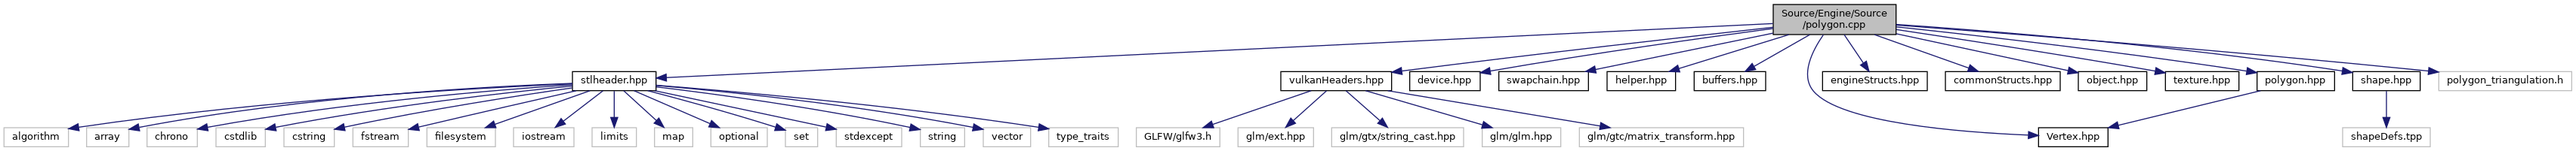
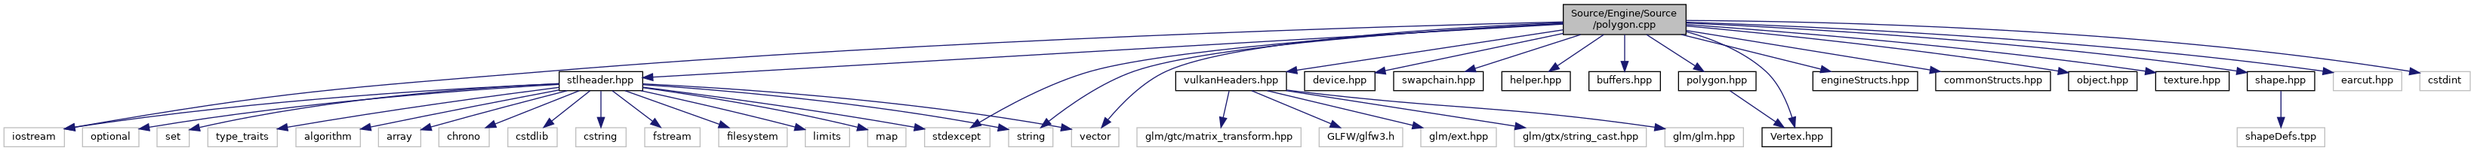
Deploying to gh-pages from @ RahulVadhyar/Chronos@322ca6da49c3140557e130659ca4319257ebfc58 🚀

diff --git a/polygon_8cpp_source.html b/polygon_8cpp_source.html
@@ -101,30 +101,30 @@ $(document).ready(function(){initNavTree('polygon_8cpp_source.html',''); initRes
 <div class="line"><a name="l00011"></a><span class="lineno">   11</span>&#160;<span class="preprocessor">#include &quot;<a class="code" href="texture_8hpp.html">texture.hpp</a>&quot;</span></div>
 <div class="line"><a name="l00012"></a><span class="lineno">   12</span>&#160;<span class="preprocessor">#include &quot;<a class="code" href="shape_8hpp.html">shape.hpp</a>&quot;</span></div>
 <div class="line"><a name="l00013"></a><span class="lineno">   13</span>&#160;<span class="preprocessor">#include &quot;<a class="code" href="polygon_8hpp.html">polygon.hpp</a>&quot;</span></div>
-<div class="line"><a name="l00014"></a><span class="lineno">   14</span>&#160;<span class="preprocessor">#include &quot;polygon_triangulation.h&quot;</span></div>
-<div class="line"><a name="l00015"></a><span class="lineno">   15</span>&#160; </div>
-<div class="line"><a name="l00016"></a><span class="lineno"><a class="line" href="classChronos_1_1Engine_1_1Polygon.html#a1adbc891708ff947404aa55cd51b577e">   16</a></span>&#160;<span class="keywordtype">void</span> <a class="code" href="classChronos_1_1Engine_1_1Polygon.html#a1adbc891708ff947404aa55cd51b577e">Chronos::Engine::Polygon::init</a>(<a class="code" href="classChronos_1_1Engine_1_1Device.html">Chronos::Engine::Device</a>* device, VkCommandPool commandPool, <a class="code" href="classChronos_1_1Engine_1_1SwapChain.html">Chronos::Engine::SwapChain</a>* swapChain,</div>
-<div class="line"><a name="l00017"></a><span class="lineno">   17</span>&#160;VkSampler textureSampler, <a class="code" href="classChronos_1_1Engine_1_1Texture.html">Chronos::Engine::Texture</a> texture, VkRenderPass* renderPass, std::vector&lt;std::array&lt;float, 2&gt;&gt; vertices){</div>
-<div class="line"><a name="l00018"></a><span class="lineno">   18</span>&#160;    this-&gt;<a class="code" href="classChronos_1_1Engine_1_1Object.html#a6323a6f9a4c9fefff3d27c34f51f2f59">vertexShaderPath</a> = SPIV_SHADER_PATH<span class="stringliteral">&quot;/textureVert.spv&quot;</span>;</div>
-<div class="line"><a name="l00019"></a><span class="lineno">   19</span>&#160;    this-&gt;<a class="code" href="classChronos_1_1Engine_1_1Object.html#ad017c20cbe79d573325a66621de9963e">fragmentShaderPath</a> = SPIV_SHADER_PATH<span class="stringliteral">&quot;/textureFrag.spv&quot;</span>;</div>
-<div class="line"><a name="l00020"></a><span class="lineno">   20</span>&#160;    this-&gt;texture = <a class="code" href="classChronos_1_1Engine_1_1Shape.html#a5c6cfeb926c4e0e8d92823e1184e7698">texture</a>;</div>
-<div class="line"><a name="l00021"></a><span class="lineno">   21</span>&#160; </div>
-<div class="line"><a name="l00022"></a><span class="lineno">   22</span>&#160;    <span class="keyword">const</span> uint32_t nvertices = <a class="code" href="classChronos_1_1Engine_1_1Shape.html#a7ed759c6c4d3e9422e12b7f232a083b8">vertices</a>.size();</div>
-<div class="line"><a name="l00023"></a><span class="lineno">   23</span>&#160;    std::vector&lt;vertex_t&gt; polytriVertices;</div>
-<div class="line"><a name="l00024"></a><span class="lineno">   24</span>&#160;    <span class="keywordflow">for</span> (<span class="keyword">auto</span>&amp; vertex : <a class="code" href="classChronos_1_1Engine_1_1Shape.html#a7ed759c6c4d3e9422e12b7f232a083b8">vertices</a>) {</div>
-<div class="line"><a name="l00025"></a><span class="lineno">   25</span>&#160;        vertex_t v;</div>
-<div class="line"><a name="l00026"></a><span class="lineno">   26</span>&#160;        v.x = vertex[0];</div>
-<div class="line"><a name="l00027"></a><span class="lineno">   27</span>&#160;        v.y = vertex[1];</div>
-<div class="line"><a name="l00028"></a><span class="lineno">   28</span>&#160;        polytriVertices.push_back(v);</div>
+<div class="line"><a name="l00014"></a><span class="lineno">   14</span>&#160;<span class="preprocessor">#include &quot;earcut.hpp&quot;</span></div>
+<div class="line"><a name="l00015"></a><span class="lineno">   15</span>&#160;<span class="preprocessor">#include &lt;cstdint&gt;</span></div>
+<div class="line"><a name="l00016"></a><span class="lineno">   16</span>&#160;<span class="preprocessor">#include &lt;iostream&gt;</span></div>
+<div class="line"><a name="l00017"></a><span class="lineno">   17</span>&#160;<span class="preprocessor">#include &lt;stdexcept&gt;</span></div>
+<div class="line"><a name="l00018"></a><span class="lineno">   18</span>&#160;<span class="preprocessor">#include &lt;string&gt;</span></div>
+<div class="line"><a name="l00019"></a><span class="lineno">   19</span>&#160;<span class="preprocessor">#include &lt;vector&gt;</span></div>
+<div class="line"><a name="l00020"></a><span class="lineno">   20</span>&#160; </div>
+<div class="line"><a name="l00021"></a><span class="lineno"><a class="line" href="classChronos_1_1Engine_1_1Polygon.html#a1adbc891708ff947404aa55cd51b577e">   21</a></span>&#160;<span class="keywordtype">void</span> <a class="code" href="classChronos_1_1Engine_1_1Polygon.html#a1adbc891708ff947404aa55cd51b577e">Chronos::Engine::Polygon::init</a>(<a class="code" href="classChronos_1_1Engine_1_1Device.html">Chronos::Engine::Device</a>* device, VkCommandPool commandPool, <a class="code" href="classChronos_1_1Engine_1_1SwapChain.html">Chronos::Engine::SwapChain</a>* swapChain,</div>
+<div class="line"><a name="l00022"></a><span class="lineno">   22</span>&#160;VkSampler textureSampler, <a class="code" href="classChronos_1_1Engine_1_1Texture.html">Chronos::Engine::Texture</a> texture, VkRenderPass* renderPass, std::vector&lt;std::array&lt;float, 2&gt;&gt; vertices){</div>
+<div class="line"><a name="l00023"></a><span class="lineno">   23</span>&#160;    this-&gt;<a class="code" href="classChronos_1_1Engine_1_1Object.html#a6323a6f9a4c9fefff3d27c34f51f2f59">vertexShaderPath</a> = SPIV_SHADER_PATH<span class="stringliteral">&quot;/textureVert.spv&quot;</span>;</div>
+<div class="line"><a name="l00024"></a><span class="lineno">   24</span>&#160;    this-&gt;<a class="code" href="classChronos_1_1Engine_1_1Object.html#ad017c20cbe79d573325a66621de9963e">fragmentShaderPath</a> = SPIV_SHADER_PATH<span class="stringliteral">&quot;/textureFrag.spv&quot;</span>;</div>
+<div class="line"><a name="l00025"></a><span class="lineno">   25</span>&#160;    this-&gt;texture = <a class="code" href="classChronos_1_1Engine_1_1Shape.html#a5c6cfeb926c4e0e8d92823e1184e7698">texture</a>;</div>
+<div class="line"><a name="l00026"></a><span class="lineno">   26</span>&#160; </div>
+<div class="line"><a name="l00027"></a><span class="lineno">   27</span>&#160; </div>
+<div class="line"><a name="l00028"></a><span class="lineno">   28</span>&#160;    <span class="keywordflow">for</span> (<span class="keyword">auto</span>&amp; vertex : <a class="code" href="classChronos_1_1Engine_1_1Shape.html#a7ed759c6c4d3e9422e12b7f232a083b8">vertices</a>) {</div>
 <div class="line"><a name="l00029"></a><span class="lineno">   29</span>&#160;        <a class="code" href="structChronos_1_1Engine_1_1TexturedVertex.html">TexturedVertex</a> tv = {{vertex[0], vertex[1]}, {0.0f, 0.0f}};</div>
 <div class="line"><a name="l00030"></a><span class="lineno">   30</span>&#160;        this-&gt;vertices.push_back(tv);</div>
 <div class="line"><a name="l00031"></a><span class="lineno">   31</span>&#160;    }</div>
-<div class="line"><a name="l00032"></a><span class="lineno">   32</span>&#160;    PolygonTriangulation::TriangleBuffer_t triangles;</div>
-<div class="line"><a name="l00033"></a><span class="lineno">   33</span>&#160;    PolygonTriangulation::Triangulate(1, &amp;nvertices, polytriVertices.data(), triangles);</div>
-<div class="line"><a name="l00034"></a><span class="lineno">   34</span>&#160;    <span class="keywordflow">for</span> (<span class="keyword">auto</span>&amp; t : triangles) {</div>
-<div class="line"><a name="l00035"></a><span class="lineno">   35</span>&#160;        <a class="code" href="classChronos_1_1Engine_1_1Shape.html#af568aa742535919b46b8caf2b913ba57">indices</a>.push_back(t.v0);</div>
-<div class="line"><a name="l00036"></a><span class="lineno">   36</span>&#160;        <a class="code" href="classChronos_1_1Engine_1_1Shape.html#af568aa742535919b46b8caf2b913ba57">indices</a>.push_back(t.v1);</div>
-<div class="line"><a name="l00037"></a><span class="lineno">   37</span>&#160;        <a class="code" href="classChronos_1_1Engine_1_1Shape.html#af568aa742535919b46b8caf2b913ba57">indices</a>.push_back(t.v2);</div>
+<div class="line"><a name="l00032"></a><span class="lineno">   32</span>&#160;    std::vector&lt;uint32_t&gt; triangleIndices = mapbox::earcut&lt;uint32_t&gt;(std::array&lt;std::vector&lt;std::array&lt;float, 2&gt;&gt;, 2&gt;{<a class="code" href="classChronos_1_1Engine_1_1Shape.html#a7ed759c6c4d3e9422e12b7f232a083b8">vertices</a>, {}});</div>
+<div class="line"><a name="l00033"></a><span class="lineno">   33</span>&#160;    <span class="keywordflow">for</span> (uint32_t i = triangleIndices.size() - 1; i &gt; 0; i--){</div>
+<div class="line"><a name="l00034"></a><span class="lineno">   34</span>&#160;        <span class="keywordflow">if</span>(triangleIndices[i] &gt;= <a class="code" href="classChronos_1_1Engine_1_1Shape.html#a7ed759c6c4d3e9422e12b7f232a083b8">vertices</a>.size()){</div>
+<div class="line"><a name="l00035"></a><span class="lineno">   35</span>&#160;            <span class="keywordflow">throw</span> std::runtime_error(<span class="stringliteral">&quot;Index&quot;</span> + std::to_string(triangleIndices[i]) + <span class="stringliteral">&quot; out of range&quot;</span>);</div>
+<div class="line"><a name="l00036"></a><span class="lineno">   36</span>&#160;        }</div>
+<div class="line"><a name="l00037"></a><span class="lineno">   37</span>&#160;        this-&gt;<a class="code" href="classChronos_1_1Engine_1_1Shape.html#af568aa742535919b46b8caf2b913ba57">indices</a>.push_back(triangleIndices[i]);</div>
 <div class="line"><a name="l00038"></a><span class="lineno">   38</span>&#160;    }</div>
 <div class="line"><a name="l00039"></a><span class="lineno">   39</span>&#160; </div>
 <div class="line"><a name="l00040"></a><span class="lineno">   40</span>&#160;    <a class="code" href="classChronos_1_1Engine_1_1Object.html#a2ff58729143a63b536fcd06e890b514e">Chronos::Engine::Object::init</a>(<a class="code" href="classChronos_1_1Engine_1_1Object.html#a9ec42d04a85645aaffe162580da68a29">device</a>, <a class="code" href="classChronos_1_1Engine_1_1Object.html#a300ba4549a4e0119cf2fcf0fad24569b">commandPool</a>, <a class="code" href="classChronos_1_1Engine_1_1Object.html#a7cfcd07115e8e58783c5cc40e4575bd8">swapChain</a>, <a class="code" href="classChronos_1_1Engine_1_1Object.html#a203a494524c8c74d52e5d692a2845f8b">textureSampler</a>, <a class="code" href="classChronos_1_1Engine_1_1Object.html#af8b89f8ed5191515b60219682efba376">renderPass</a>);</div>
@@ -157,7 +157,7 @@ $(document).ready(function(){initNavTree('polygon_8cpp_source.html',''); initRes
 <div class="ttc" id="aclassChronos_1_1Engine_1_1Object_html_a9ec42d04a85645aaffe162580da68a29"><div class="ttname"><a href="classChronos_1_1Engine_1_1Object.html#a9ec42d04a85645aaffe162580da68a29">Chronos::Engine::Object::device</a></div><div class="ttdeci">Chronos::Engine::Device * device</div><div class="ttdef"><b>Definition:</b> <a href="object_8hpp_source.html#l00085">object.hpp:85</a></div></div>
 <div class="ttc" id="aclassChronos_1_1Engine_1_1Object_html_ad017c20cbe79d573325a66621de9963e"><div class="ttname"><a href="classChronos_1_1Engine_1_1Object.html#ad017c20cbe79d573325a66621de9963e">Chronos::Engine::Object::fragmentShaderPath</a></div><div class="ttdeci">std::string fragmentShaderPath</div><div class="ttdef"><b>Definition:</b> <a href="object_8hpp_source.html#l00084">object.hpp:84</a></div></div>
 <div class="ttc" id="aclassChronos_1_1Engine_1_1Object_html_af8b89f8ed5191515b60219682efba376"><div class="ttname"><a href="classChronos_1_1Engine_1_1Object.html#af8b89f8ed5191515b60219682efba376">Chronos::Engine::Object::renderPass</a></div><div class="ttdeci">VkRenderPass * renderPass</div><div class="ttdef"><b>Definition:</b> <a href="object_8hpp_source.html#l00089">object.hpp:89</a></div></div>
-<div class="ttc" id="aclassChronos_1_1Engine_1_1Polygon_html_a1adbc891708ff947404aa55cd51b577e"><div class="ttname"><a href="classChronos_1_1Engine_1_1Polygon.html#a1adbc891708ff947404aa55cd51b577e">Chronos::Engine::Polygon::init</a></div><div class="ttdeci">void init(Chronos::Engine::Device *device, VkCommandPool commandPool, Chronos::Engine::SwapChain *swapChain, VkSampler textureSampler, Chronos::Engine::Texture texture, VkRenderPass *renderPass, std::vector&lt; std::array&lt; float, 2 &gt;&gt; vertices)</div><div class="ttdef"><b>Definition:</b> <a href="polygon_8cpp_source.html#l00016">polygon.cpp:16</a></div></div>
+<div class="ttc" id="aclassChronos_1_1Engine_1_1Polygon_html_a1adbc891708ff947404aa55cd51b577e"><div class="ttname"><a href="classChronos_1_1Engine_1_1Polygon.html#a1adbc891708ff947404aa55cd51b577e">Chronos::Engine::Polygon::init</a></div><div class="ttdeci">void init(Chronos::Engine::Device *device, VkCommandPool commandPool, Chronos::Engine::SwapChain *swapChain, VkSampler textureSampler, Chronos::Engine::Texture texture, VkRenderPass *renderPass, std::vector&lt; std::array&lt; float, 2 &gt;&gt; vertices)</div><div class="ttdef"><b>Definition:</b> <a href="polygon_8cpp_source.html#l00021">polygon.cpp:21</a></div></div>
 <div class="ttc" id="aclassChronos_1_1Engine_1_1Shape_html_a5c6cfeb926c4e0e8d92823e1184e7698"><div class="ttname"><a href="classChronos_1_1Engine_1_1Shape.html#a5c6cfeb926c4e0e8d92823e1184e7698">Chronos::Engine::Shape&lt; TexturedVertex &gt;::texture</a></div><div class="ttdeci">std::conditional_t&lt; std::is_same&lt; Chronos::Engine::TexturedVertex, VertexStruct &gt;::value, Chronos::Engine::Texture, Empty &gt; texture</div><div class="ttdoc">The texture that is to be used.</div><div class="ttdef"><b>Definition:</b> <a href="shape_8hpp_source.html#l00092">shape.hpp:92</a></div></div>
 <div class="ttc" id="aclassChronos_1_1Engine_1_1Shape_html_a7ed759c6c4d3e9422e12b7f232a083b8"><div class="ttname"><a href="classChronos_1_1Engine_1_1Shape.html#a7ed759c6c4d3e9422e12b7f232a083b8">Chronos::Engine::Shape&lt; TexturedVertex &gt;::vertices</a></div><div class="ttdeci">std::vector&lt; VertexStruct &gt; vertices</div><div class="ttdoc">The vertices that is used to render the shape.</div><div class="ttdef"><b>Definition:</b> <a href="shape_8hpp_source.html#l00097">shape.hpp:97</a></div></div>
 <div class="ttc" id="aclassChronos_1_1Engine_1_1Shape_html_ad894665aca6b42aa8a75c030c926f9e8"><div class="ttname"><a href="classChronos_1_1Engine_1_1Shape.html#ad894665aca6b42aa8a75c030c926f9e8">Chronos::Engine::Shape&lt; TexturedVertex &gt;::vertexBuffer</a></div><div class="ttdeci">Chronos::Engine::Buffer vertexBuffer</div><div class="ttdoc">The vertex buffer that is used to store the vertices.</div><div class="ttdef"><b>Definition:</b> <a href="shape_8hpp_source.html#l00102">shape.hpp:102</a></div></div>

diff --git a/classChronos_1_1Engine_1_1Polygon.html b/classChronos_1_1Engine_1_1Polygon.html
@@ -264,28 +264,23 @@ Additional Inherited Members</h2></td></tr>
       </table>
 </div><div class="memdoc">
 
-<p class="definition">Definition at line <a class="el" href="polygon_8cpp_source.html#l00016">16</a> of file <a class="el" href="polygon_8cpp_source.html">polygon.cpp</a>.</p>
-<div class="fragment"><div class="line"><a name="l00017"></a><span class="lineno">   17</span>&#160;                                                                                                                         {</div>
-<div class="line"><a name="l00018"></a><span class="lineno">   18</span>&#160;    this-&gt;<a class="code" href="classChronos_1_1Engine_1_1Object.html#a6323a6f9a4c9fefff3d27c34f51f2f59">vertexShaderPath</a> = SPIV_SHADER_PATH<span class="stringliteral">&quot;/textureVert.spv&quot;</span>;</div>
-<div class="line"><a name="l00019"></a><span class="lineno">   19</span>&#160;    this-&gt;<a class="code" href="classChronos_1_1Engine_1_1Object.html#ad017c20cbe79d573325a66621de9963e">fragmentShaderPath</a> = SPIV_SHADER_PATH<span class="stringliteral">&quot;/textureFrag.spv&quot;</span>;</div>
-<div class="line"><a name="l00020"></a><span class="lineno">   20</span>&#160;    this-&gt;texture = <a class="code" href="classChronos_1_1Engine_1_1Shape.html#a5c6cfeb926c4e0e8d92823e1184e7698">texture</a>;</div>
-<div class="line"><a name="l00021"></a><span class="lineno">   21</span>&#160; </div>
-<div class="line"><a name="l00022"></a><span class="lineno">   22</span>&#160;    <span class="keyword">const</span> uint32_t nvertices = <a class="code" href="classChronos_1_1Engine_1_1Shape.html#a7ed759c6c4d3e9422e12b7f232a083b8">vertices</a>.size();</div>
-<div class="line"><a name="l00023"></a><span class="lineno">   23</span>&#160;    std::vector&lt;vertex_t&gt; polytriVertices;</div>
-<div class="line"><a name="l00024"></a><span class="lineno">   24</span>&#160;    <span class="keywordflow">for</span> (<span class="keyword">auto</span>&amp; vertex : <a class="code" href="classChronos_1_1Engine_1_1Shape.html#a7ed759c6c4d3e9422e12b7f232a083b8">vertices</a>) {</div>
-<div class="line"><a name="l00025"></a><span class="lineno">   25</span>&#160;        vertex_t v;</div>
-<div class="line"><a name="l00026"></a><span class="lineno">   26</span>&#160;        v.x = vertex[0];</div>
-<div class="line"><a name="l00027"></a><span class="lineno">   27</span>&#160;        v.y = vertex[1];</div>
-<div class="line"><a name="l00028"></a><span class="lineno">   28</span>&#160;        polytriVertices.push_back(v);</div>
+<p class="definition">Definition at line <a class="el" href="polygon_8cpp_source.html#l00021">21</a> of file <a class="el" href="polygon_8cpp_source.html">polygon.cpp</a>.</p>
+<div class="fragment"><div class="line"><a name="l00022"></a><span class="lineno">   22</span>&#160;                                                                                                                         {</div>
+<div class="line"><a name="l00023"></a><span class="lineno">   23</span>&#160;    this-&gt;<a class="code" href="classChronos_1_1Engine_1_1Object.html#a6323a6f9a4c9fefff3d27c34f51f2f59">vertexShaderPath</a> = SPIV_SHADER_PATH<span class="stringliteral">&quot;/textureVert.spv&quot;</span>;</div>
+<div class="line"><a name="l00024"></a><span class="lineno">   24</span>&#160;    this-&gt;<a class="code" href="classChronos_1_1Engine_1_1Object.html#ad017c20cbe79d573325a66621de9963e">fragmentShaderPath</a> = SPIV_SHADER_PATH<span class="stringliteral">&quot;/textureFrag.spv&quot;</span>;</div>
+<div class="line"><a name="l00025"></a><span class="lineno">   25</span>&#160;    this-&gt;texture = <a class="code" href="classChronos_1_1Engine_1_1Shape.html#a5c6cfeb926c4e0e8d92823e1184e7698">texture</a>;</div>
+<div class="line"><a name="l00026"></a><span class="lineno">   26</span>&#160; </div>
+<div class="line"><a name="l00027"></a><span class="lineno">   27</span>&#160; </div>
+<div class="line"><a name="l00028"></a><span class="lineno">   28</span>&#160;    <span class="keywordflow">for</span> (<span class="keyword">auto</span>&amp; vertex : <a class="code" href="classChronos_1_1Engine_1_1Shape.html#a7ed759c6c4d3e9422e12b7f232a083b8">vertices</a>) {</div>
 <div class="line"><a name="l00029"></a><span class="lineno">   29</span>&#160;        TexturedVertex tv = {{vertex[0], vertex[1]}, {0.0f, 0.0f}};</div>
 <div class="line"><a name="l00030"></a><span class="lineno">   30</span>&#160;        this-&gt;vertices.push_back(tv);</div>
 <div class="line"><a name="l00031"></a><span class="lineno">   31</span>&#160;    }</div>
-<div class="line"><a name="l00032"></a><span class="lineno">   32</span>&#160;    PolygonTriangulation::TriangleBuffer_t triangles;</div>
-<div class="line"><a name="l00033"></a><span class="lineno">   33</span>&#160;    PolygonTriangulation::Triangulate(1, &amp;nvertices, polytriVertices.data(), triangles);</div>
-<div class="line"><a name="l00034"></a><span class="lineno">   34</span>&#160;    <span class="keywordflow">for</span> (<span class="keyword">auto</span>&amp; t : triangles) {</div>
-<div class="line"><a name="l00035"></a><span class="lineno">   35</span>&#160;        <a class="code" href="classChronos_1_1Engine_1_1Shape.html#af568aa742535919b46b8caf2b913ba57">indices</a>.push_back(t.v0);</div>
-<div class="line"><a name="l00036"></a><span class="lineno">   36</span>&#160;        <a class="code" href="classChronos_1_1Engine_1_1Shape.html#af568aa742535919b46b8caf2b913ba57">indices</a>.push_back(t.v1);</div>
-<div class="line"><a name="l00037"></a><span class="lineno">   37</span>&#160;        <a class="code" href="classChronos_1_1Engine_1_1Shape.html#af568aa742535919b46b8caf2b913ba57">indices</a>.push_back(t.v2);</div>
+<div class="line"><a name="l00032"></a><span class="lineno">   32</span>&#160;    std::vector&lt;uint32_t&gt; triangleIndices = mapbox::earcut&lt;uint32_t&gt;(std::array&lt;std::vector&lt;std::array&lt;float, 2&gt;&gt;, 2&gt;{<a class="code" href="classChronos_1_1Engine_1_1Shape.html#a7ed759c6c4d3e9422e12b7f232a083b8">vertices</a>, {}});</div>
+<div class="line"><a name="l00033"></a><span class="lineno">   33</span>&#160;    <span class="keywordflow">for</span> (uint32_t i = triangleIndices.size() - 1; i &gt; 0; i--){</div>
+<div class="line"><a name="l00034"></a><span class="lineno">   34</span>&#160;        <span class="keywordflow">if</span>(triangleIndices[i] &gt;= <a class="code" href="classChronos_1_1Engine_1_1Shape.html#a7ed759c6c4d3e9422e12b7f232a083b8">vertices</a>.size()){</div>
+<div class="line"><a name="l00035"></a><span class="lineno">   35</span>&#160;            <span class="keywordflow">throw</span> std::runtime_error(<span class="stringliteral">&quot;Index&quot;</span> + std::to_string(triangleIndices[i]) + <span class="stringliteral">&quot; out of range&quot;</span>);</div>
+<div class="line"><a name="l00036"></a><span class="lineno">   36</span>&#160;        }</div>
+<div class="line"><a name="l00037"></a><span class="lineno">   37</span>&#160;        this-&gt;<a class="code" href="classChronos_1_1Engine_1_1Shape.html#af568aa742535919b46b8caf2b913ba57">indices</a>.push_back(triangleIndices[i]);</div>
 <div class="line"><a name="l00038"></a><span class="lineno">   38</span>&#160;    }</div>
 <div class="line"><a name="l00039"></a><span class="lineno">   39</span>&#160; </div>
 <div class="line"><a name="l00040"></a><span class="lineno">   40</span>&#160;    <a class="code" href="classChronos_1_1Engine_1_1Object.html#a2ff58729143a63b536fcd06e890b514e">Chronos::Engine::Object::init</a>(<a class="code" href="classChronos_1_1Engine_1_1Object.html#a9ec42d04a85645aaffe162580da68a29">device</a>, <a class="code" href="classChronos_1_1Engine_1_1Object.html#a300ba4549a4e0119cf2fcf0fad24569b">commandPool</a>, <a class="code" href="classChronos_1_1Engine_1_1Object.html#a7cfcd07115e8e58783c5cc40e4575bd8">swapChain</a>, <a class="code" href="classChronos_1_1Engine_1_1Object.html#a203a494524c8c74d52e5d692a2845f8b">textureSampler</a>, <a class="code" href="classChronos_1_1Engine_1_1Object.html#af8b89f8ed5191515b60219682efba376">renderPass</a>);</div>

diff --git a/polygon_8cpp.html b/polygon_8cpp.html
@@ -101,49 +101,55 @@ $(document).ready(function(){initNavTree('polygon_8cpp.html',''); initResizable(
 <code>#include &quot;<a class="el" href="texture_8hpp_source.html">texture.hpp</a>&quot;</code><br />
 <code>#include &quot;<a class="el" href="shape_8hpp_source.html">shape.hpp</a>&quot;</code><br />
 <code>#include &quot;<a class="el" href="polygon_8hpp_source.html">polygon.hpp</a>&quot;</code><br />
-<code>#include &quot;polygon_triangulation.h&quot;</code><br />
+<code>#include &quot;earcut.hpp&quot;</code><br />
+<code>#include &lt;cstdint&gt;</code><br />
+<code>#include &lt;iostream&gt;</code><br />
+<code>#include &lt;stdexcept&gt;</code><br />
+<code>#include &lt;string&gt;</code><br />
+<code>#include &lt;vector&gt;</code><br />
 </div><div class="textblock"><div class="dynheader">
 Include dependency graph for polygon.cpp:</div>
 <div class="dyncontent">
 <div class="center"><img src="polygon_8cpp__incl.png" border="0" usemap="#aSource_2Engine_2Source_2polygon_8cpp" alt=""/></div>
 <map name="aSource_2Engine_2Source_2polygon_8cpp" id="aSource_2Engine_2Source_2polygon_8cpp">
-<area shape="rect" title=" " alt="" coords="2348,5,2511,47"/>
-<area shape="rect" href="stlheader_8hpp.html" title="Contains all the standard library headers used in the project." alt="" coords="758,95,869,121"/>
-<area shape="rect" href="vulkanHeaders_8hpp.html" title="Contains the common headers for the vulkan API." alt="" coords="1696,95,1843,121"/>
-<area shape="rect" href="device_8hpp.html" title="Contains the Device class." alt="" coords="1867,95,1960,121"/>
-<area shape="rect" href="swapchain_8hpp.html" title="Contains the swapChain class along with all the swapChain related functions." alt="" coords="1985,95,2103,121"/>
-<area shape="rect" href="helper_8hpp.html" title="Contains various common functions used by other classes in the Engine namespace." alt="" coords="2128,95,2219,121"/>
-<area shape="rect" href="buffers_8hpp.html" title="Contains the Buffer and UniformBuffer class." alt="" coords="2243,95,2338,121"/>
-<area shape="rect" href="Vertex_8hpp.html" title="This file includes the structure of a vertex." alt="" coords="2699,169,2791,196"/>
-<area shape="rect" href="engineStructs_8hpp.html" title="Contains ShapeParams and UniformBufferObject structs." alt="" coords="2413,95,2552,121"/>
-<area shape="rect" href="commonStructs_8hpp.html" title=" " alt="" coords="2576,95,2728,121"/>
-<area shape="rect" href="object_8hpp.html" title="Contains the class for creating a generic object." alt="" coords="2752,95,2843,121"/>
-<area shape="rect" href="texture_8hpp.html" title="Contains the functions for image manipulation along with the Texture class." alt="" coords="2867,95,2965,121"/>
-<area shape="rect" href="shape_8hpp.html" title="Contains the class for creating a shape." alt="" coords="3115,95,3205,121"/>
-<area shape="rect" href="polygon_8hpp.html" title=" " alt="" coords="2989,95,3091,121"/>
-<area shape="rect" title=" " alt="" coords="3229,95,3405,121"/>
-<area shape="rect" title=" " alt="" coords="5,169,91,196"/>
-<area shape="rect" title=" " alt="" coords="115,169,171,196"/>
-<area shape="rect" title=" " alt="" coords="195,169,261,196"/>
-<area shape="rect" title=" " alt="" coords="286,169,351,196"/>
-<area shape="rect" title=" " alt="" coords="376,169,443,196"/>
-<area shape="rect" title=" " alt="" coords="467,169,541,196"/>
-<area shape="rect" title=" " alt="" coords="565,169,656,196"/>
-<area shape="rect" title=" " alt="" coords="680,169,760,196"/>
-<area shape="rect" title=" " alt="" coords="784,169,843,196"/>
-<area shape="rect" title=" " alt="" coords="867,169,917,196"/>
-<area shape="rect" title=" " alt="" coords="941,169,1016,196"/>
-<area shape="rect" title=" " alt="" coords="1040,169,1083,196"/>
-<area shape="rect" title=" " alt="" coords="1107,169,1194,196"/>
-<area shape="rect" title=" " alt="" coords="1219,169,1277,196"/>
-<area shape="rect" title=" " alt="" coords="1302,169,1365,196"/>
-<area shape="rect" title=" " alt="" coords="1389,169,1481,196"/>
-<area shape="rect" title=" " alt="" coords="1505,169,1615,196"/>
-<area shape="rect" title=" " alt="" coords="1639,169,1739,196"/>
-<area shape="rect" title=" " alt="" coords="1763,169,1938,196"/>
-<area shape="rect" title=" " alt="" coords="1963,169,2067,196"/>
-<area shape="rect" title=" " alt="" coords="2091,169,2309,196"/>
-<area shape="rect" title=" " alt="" coords="3102,169,3218,196"/>
+<area shape="rect" title=" " alt="" coords="2071,5,2233,47"/>
+<area shape="rect" href="stlheader_8hpp.html" title="Contains all the standard library headers used in the project." alt="" coords="741,95,851,121"/>
+<area shape="rect" title=" " alt="" coords="5,169,85,196"/>
+<area shape="rect" title=" " alt="" coords="1225,169,1311,196"/>
+<area shape="rect" title=" " alt="" coords="1336,169,1395,196"/>
+<area shape="rect" title=" " alt="" coords="1419,169,1482,196"/>
+<area shape="rect" href="vulkanHeaders_8hpp.html" title="Contains the common headers for the vulkan API." alt="" coords="1557,95,1704,121"/>
+<area shape="rect" href="device_8hpp.html" title="Contains the Device class." alt="" coords="1728,95,1821,121"/>
+<area shape="rect" href="swapchain_8hpp.html" title="Contains the swapChain class along with all the swapChain related functions." alt="" coords="1846,95,1965,121"/>
+<area shape="rect" href="helper_8hpp.html" title="Contains various common functions used by other classes in the Engine namespace." alt="" coords="1989,95,2080,121"/>
+<area shape="rect" href="buffers_8hpp.html" title="Contains the Buffer and UniformBuffer class." alt="" coords="2105,95,2199,121"/>
+<area shape="rect" href="Vertex_8hpp.html" title="This file includes the structure of a vertex." alt="" coords="2334,169,2426,196"/>
+<area shape="rect" href="engineStructs_8hpp.html" title="Contains ShapeParams and UniformBufferObject structs." alt="" coords="2401,95,2540,121"/>
+<area shape="rect" href="commonStructs_8hpp.html" title=" " alt="" coords="2564,95,2716,121"/>
+<area shape="rect" href="object_8hpp.html" title="Contains the class for creating a generic object." alt="" coords="2740,95,2831,121"/>
+<area shape="rect" href="texture_8hpp.html" title="Contains the functions for image manipulation along with the Texture class." alt="" coords="2855,95,2953,121"/>
+<area shape="rect" href="shape_8hpp.html" title="Contains the class for creating a shape." alt="" coords="2977,95,3066,121"/>
+<area shape="rect" href="polygon_8hpp.html" title=" " alt="" coords="2223,95,2326,121"/>
+<area shape="rect" title=" " alt="" coords="3091,95,3181,121"/>
+<area shape="rect" title=" " alt="" coords="3205,95,3272,121"/>
+<area shape="rect" title=" " alt="" coords="392,169,477,196"/>
+<area shape="rect" title=" " alt="" coords="501,169,557,196"/>
+<area shape="rect" title=" " alt="" coords="581,169,648,196"/>
+<area shape="rect" title=" " alt="" coords="673,169,738,196"/>
+<area shape="rect" title=" " alt="" coords="763,169,829,196"/>
+<area shape="rect" title=" " alt="" coords="854,169,927,196"/>
+<area shape="rect" title=" " alt="" coords="952,169,1043,196"/>
+<area shape="rect" title=" " alt="" coords="1067,169,1125,196"/>
+<area shape="rect" title=" " alt="" coords="1149,169,1200,196"/>
+<area shape="rect" title=" " alt="" coords="109,169,184,196"/>
+<area shape="rect" title=" " alt="" coords="208,169,251,196"/>
+<area shape="rect" title=" " alt="" coords="275,169,367,196"/>
+<area shape="rect" title=" " alt="" coords="1747,169,1858,196"/>
+<area shape="rect" title=" " alt="" coords="1882,169,1982,196"/>
+<area shape="rect" title=" " alt="" coords="2006,169,2181,196"/>
+<area shape="rect" title=" " alt="" coords="2205,169,2309,196"/>
+<area shape="rect" title=" " alt="" coords="1506,169,1723,196"/>
+<area shape="rect" title=" " alt="" coords="2963,169,3079,196"/>
 </map>
 </div>
 </div>

diff --git a/polygon_8hpp_source.html b/polygon_8hpp_source.html
@@ -108,7 +108,7 @@ $(document).ready(function(){initNavTree('polygon_8hpp_source.html',''); initRes
 <div class="ttc" id="aclassChronos_1_1Engine_1_1Object_html_a9ec42d04a85645aaffe162580da68a29"><div class="ttname"><a href="classChronos_1_1Engine_1_1Object.html#a9ec42d04a85645aaffe162580da68a29">Chronos::Engine::Object::device</a></div><div class="ttdeci">Chronos::Engine::Device * device</div><div class="ttdef"><b>Definition:</b> <a href="object_8hpp_source.html#l00085">object.hpp:85</a></div></div>
 <div class="ttc" id="aclassChronos_1_1Engine_1_1Object_html_af8b89f8ed5191515b60219682efba376"><div class="ttname"><a href="classChronos_1_1Engine_1_1Object.html#af8b89f8ed5191515b60219682efba376">Chronos::Engine::Object::renderPass</a></div><div class="ttdeci">VkRenderPass * renderPass</div><div class="ttdef"><b>Definition:</b> <a href="object_8hpp_source.html#l00089">object.hpp:89</a></div></div>
 <div class="ttc" id="aclassChronos_1_1Engine_1_1Polygon_html"><div class="ttname"><a href="classChronos_1_1Engine_1_1Polygon.html">Chronos::Engine::Polygon</a></div><div class="ttdef"><b>Definition:</b> <a href="polygon_8hpp_source.html#l00005">polygon.hpp:5</a></div></div>
-<div class="ttc" id="aclassChronos_1_1Engine_1_1Polygon_html_a1adbc891708ff947404aa55cd51b577e"><div class="ttname"><a href="classChronos_1_1Engine_1_1Polygon.html#a1adbc891708ff947404aa55cd51b577e">Chronos::Engine::Polygon::init</a></div><div class="ttdeci">void init(Chronos::Engine::Device *device, VkCommandPool commandPool, Chronos::Engine::SwapChain *swapChain, VkSampler textureSampler, Chronos::Engine::Texture texture, VkRenderPass *renderPass, std::vector&lt; std::array&lt; float, 2 &gt;&gt; vertices)</div><div class="ttdef"><b>Definition:</b> <a href="polygon_8cpp_source.html#l00016">polygon.cpp:16</a></div></div>
+<div class="ttc" id="aclassChronos_1_1Engine_1_1Polygon_html_a1adbc891708ff947404aa55cd51b577e"><div class="ttname"><a href="classChronos_1_1Engine_1_1Polygon.html#a1adbc891708ff947404aa55cd51b577e">Chronos::Engine::Polygon::init</a></div><div class="ttdeci">void init(Chronos::Engine::Device *device, VkCommandPool commandPool, Chronos::Engine::SwapChain *swapChain, VkSampler textureSampler, Chronos::Engine::Texture texture, VkRenderPass *renderPass, std::vector&lt; std::array&lt; float, 2 &gt;&gt; vertices)</div><div class="ttdef"><b>Definition:</b> <a href="polygon_8cpp_source.html#l00021">polygon.cpp:21</a></div></div>
 <div class="ttc" id="aclassChronos_1_1Engine_1_1Shape_html"><div class="ttname"><a href="classChronos_1_1Engine_1_1Shape.html">Chronos::Engine::Shape</a></div><div class="ttdoc">Class for creating a shape(triangle, rectangle, etc.).</div><div class="ttdef"><b>Definition:</b> <a href="shape_8hpp_source.html#l00023">shape.hpp:23</a></div></div>
 <div class="ttc" id="aclassChronos_1_1Engine_1_1Shape_html_a5c6cfeb926c4e0e8d92823e1184e7698"><div class="ttname"><a href="classChronos_1_1Engine_1_1Shape.html#a5c6cfeb926c4e0e8d92823e1184e7698">Chronos::Engine::Shape&lt; TexturedVertex &gt;::texture</a></div><div class="ttdeci">std::conditional_t&lt; std::is_same&lt; Chronos::Engine::TexturedVertex, VertexStruct &gt;::value, Chronos::Engine::Texture, Empty &gt; texture</div><div class="ttdoc">The texture that is to be used.</div><div class="ttdef"><b>Definition:</b> <a href="shape_8hpp_source.html#l00092">shape.hpp:92</a></div></div>
 <div class="ttc" id="aclassChronos_1_1Engine_1_1Shape_html_a7ed759c6c4d3e9422e12b7f232a083b8"><div class="ttname"><a href="classChronos_1_1Engine_1_1Shape.html#a7ed759c6c4d3e9422e12b7f232a083b8">Chronos::Engine::Shape&lt; TexturedVertex &gt;::vertices</a></div><div class="ttdeci">std::vector&lt; VertexStruct &gt; vertices</div><div class="ttdoc">The vertices that is used to render the shape.</div><div class="ttdef"><b>Definition:</b> <a href="shape_8hpp_source.html#l00097">shape.hpp:97</a></div></div>
